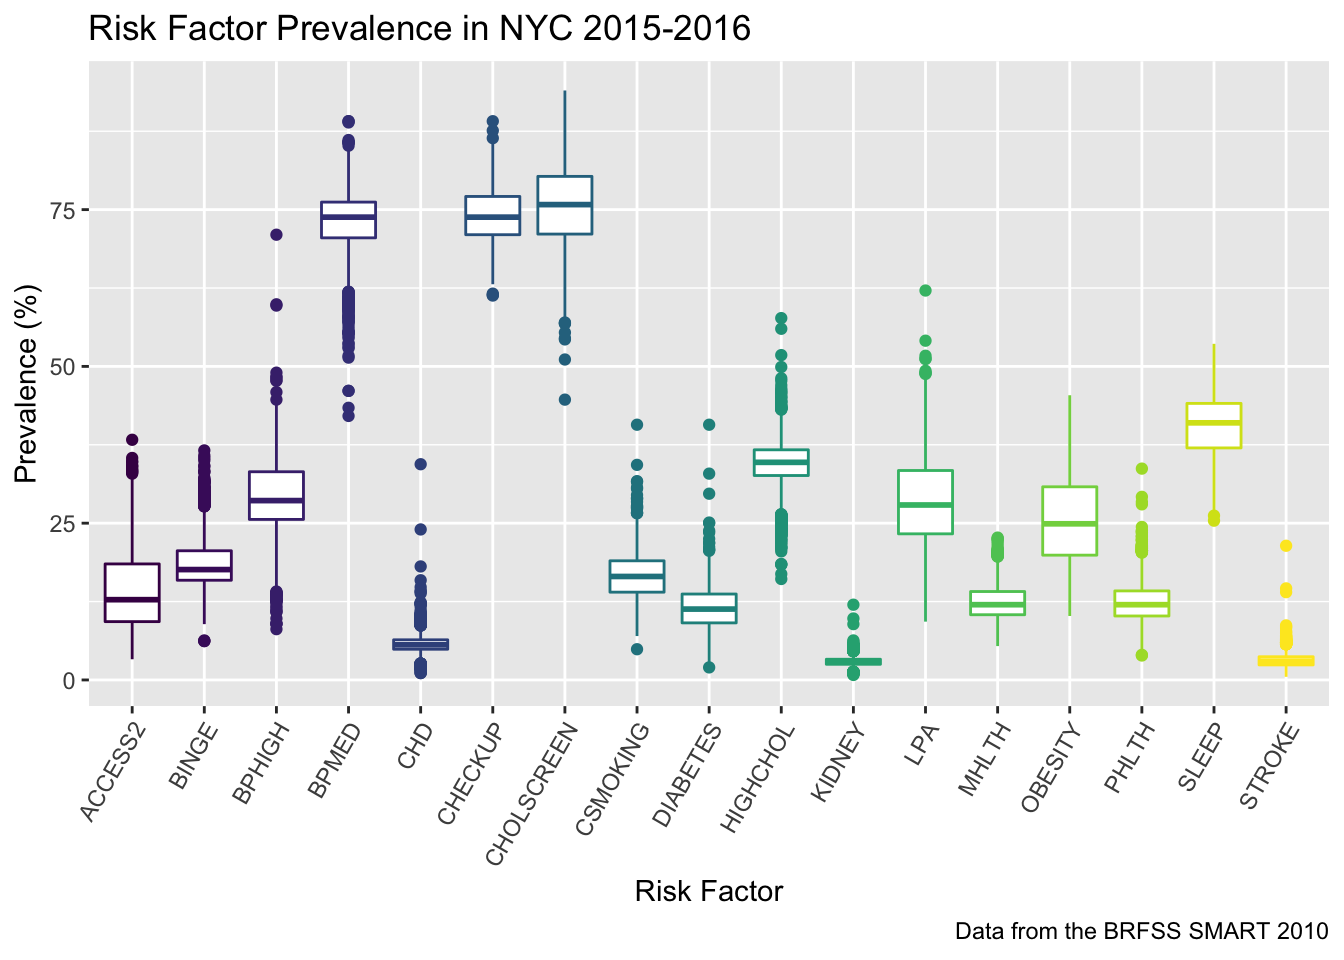
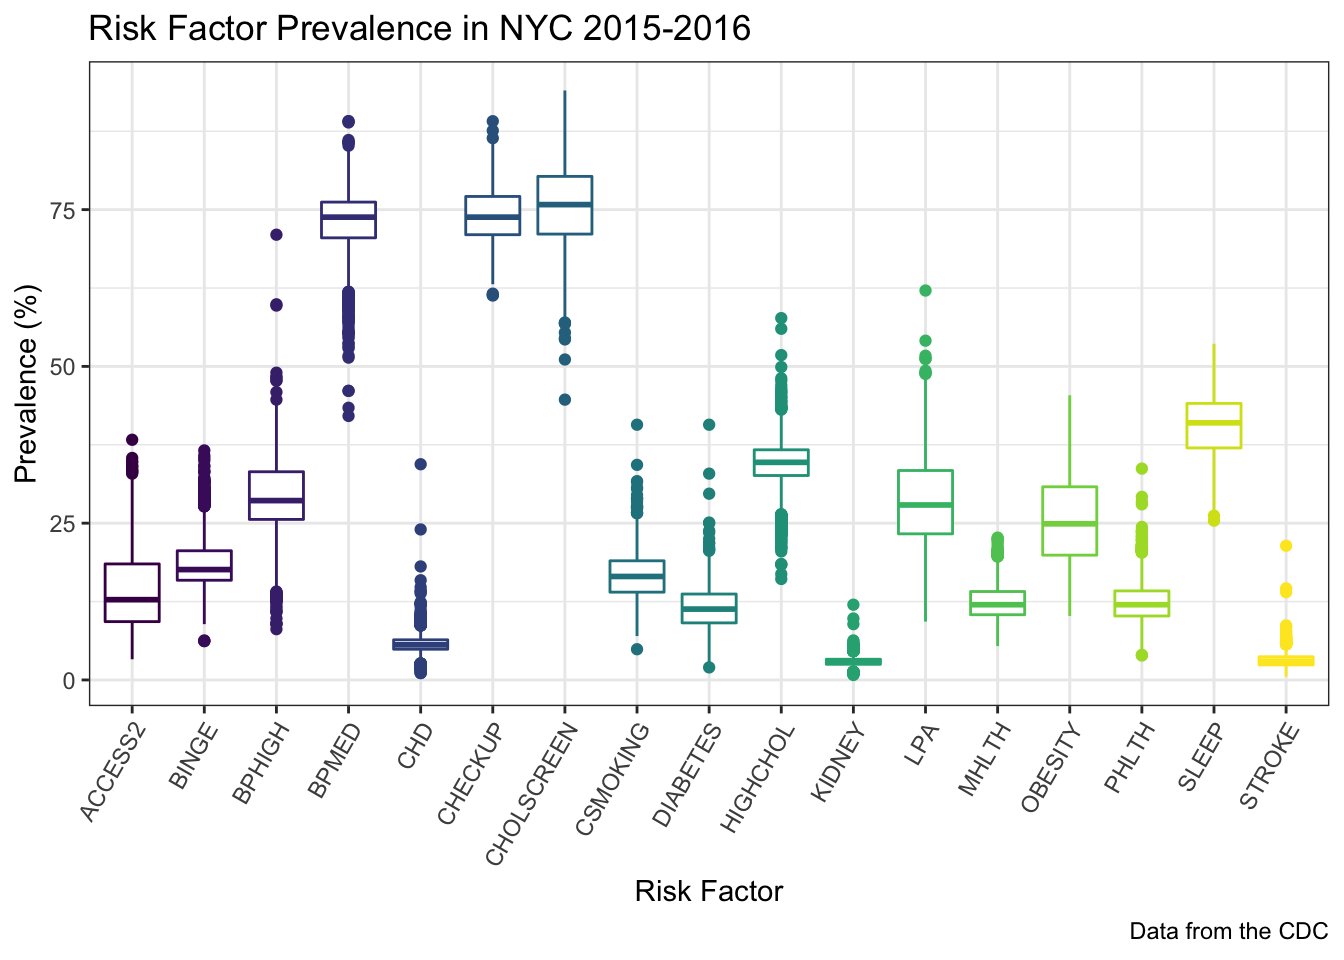
Minor cosmetic changes

diff --git a/final_project_report.html b/final_project_report.html
@@ -343,7 +343,7 @@ div.tocify {
 
 <h1 class="title toc-ignore">The Heart Project</h1>
 <h4 class="author"><em>Annie, Margaret, Jiyue &amp; Aakriti</em></h4>
-<h4 class="date"><em>December 4, 2018</em></h4>
+<h4 class="date"><em>December 6, 2018</em></h4>
 
 </div>
 
@@ -448,7 +448,8 @@ div.tocify {
   droplevels() %&gt;% 
   select(unique_id, population_count, measure_id, data_value, short_question_text)</code></pre>
 <p>The following is a distribution of the prevalences of all of the relevant variables. As you can see the risk factors with highest prevalence involve screening and medication (BPMED, CHECKUP and CHOLSCREEN). The risk factors with the lowest prevlances are diseases (CHD, KIDNEY and STROKE). There is a general trend of higher variance among risk factors with higher prevalences.</p>
-<pre class="r"><code>nyc_cvrisk %&gt;%
+<pre class="r"><code>theme_set(theme_bw())
+nyc_cvrisk %&gt;%
   ggplot(aes(x = measure_id, y = data_value, color = measure_id)) + 
   geom_boxplot() +
   theme(axis.text.x = element_text(angle = 60, hjust = 1),
@@ -457,7 +458,7 @@ div.tocify {
       title = &quot;Risk Factor Prevalence in NYC 2015-2016&quot;,
       x = &quot;Risk Factor&quot;,
       y = &quot;Prevalence (%)&quot;,
-      caption = &quot;Data from the BRFSS SMART 2010&quot;
+      caption = &quot;Data from the CDC&quot;
     ) + 
     viridis::scale_color_viridis(
       discrete = TRUE
